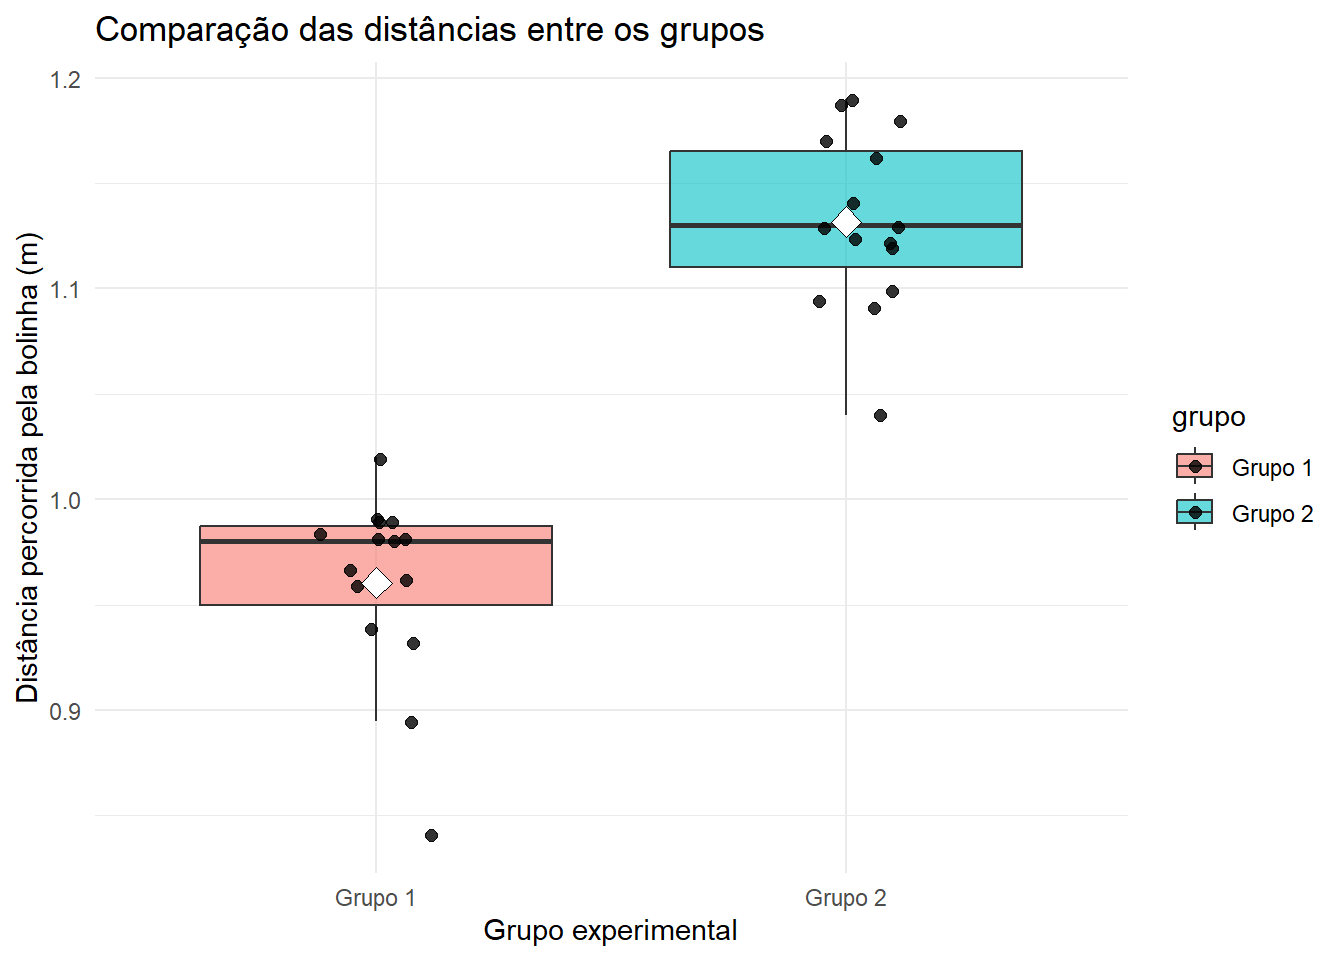
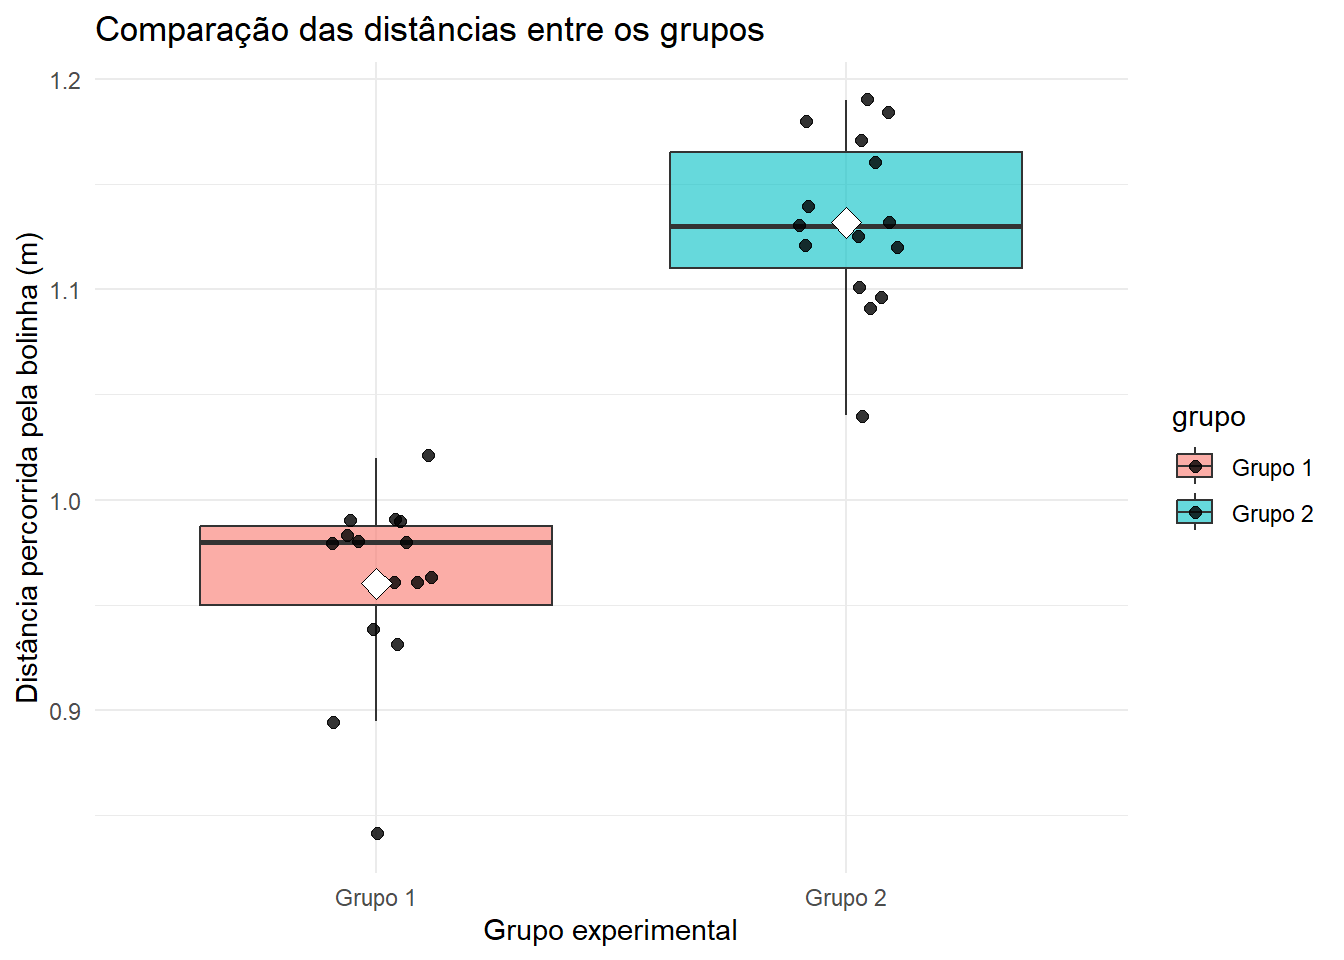
rel-08, vfinal_01

diff --git a/relatorio/rel08/index.html b/relatorio/rel08/index.html
@@ -127,7 +127,7 @@ window.Quarto = {
   <li><a href="#discussão-dos-resultados" id="toc-discussão-dos-resultados" class="nav-link" data-scroll-target="#discussão-dos-resultados"><span class="header-section-number">6</span> Discussão dos resultados</a></li>
   <li><a href="#aplicação-em-linguagem-r" id="toc-aplicação-em-linguagem-r" class="nav-link" data-scroll-target="#aplicação-em-linguagem-r"><span class="header-section-number">7</span> Aplicação em linguagem R</a></li>
   <li><a href="#conclusão" id="toc-conclusão" class="nav-link" data-scroll-target="#conclusão"><span class="header-section-number">8</span> Conclusão</a></li>
-  <li><a href="#referencia" id="toc-referencia" class="nav-link" data-scroll-target="#referencia"><span class="header-section-number">9</span> Referencia</a></li>
+  <li><a href="#referências" id="toc-referências" class="nav-link" data-scroll-target="#referências"><span class="header-section-number">9</span> Referências</a></li>
   </ul>
 </nav>
 </div>
@@ -452,9 +452,12 @@ mean of x mean of y
 </section>
 <section id="conclusão" class="level2" data-number="8">
 <h2 data-number="8" class="anchored" data-anchor-id="conclusão"><span class="header-section-number">8</span> Conclusão</h2>
+<p>Com base nos dados analisados, conclui-se que a configuração utilizada pelo Grupo 2 apresentou melhor desempenho no lançamento da bolinha pela catapulta. O teste t de Student apresentou valor de <span class="math display">\[(t \approx -10,91) , (gl = 28)\]</span> E p-valor aproximadamente igual a <span class="math display">\[(1,365 \times 10^{-11}).\]</span> Como o p-valor foi menor que (0,05), rejeita-se a hipótese nula de igualdade entre as médias. Portanto, há evidências estatísticas suficientes para afirmar que existe diferença significativa entre os grupos.</p>
+<p>Assim, dentro das condições do experimento e assumindo normalidade dos dados, a configuração do Grupo 2 foi a mais eficiente, pois apresentou maior distância média de lançamento e desempenho mais favorável em relação ao Grupo 1.</p>
 </section>
-<section id="referencia" class="level2" data-number="9">
-<h2 data-number="9" class="anchored" data-anchor-id="referencia"><span class="header-section-number">9</span> Referencia</h2>
+<section id="referências" class="level2" data-number="9">
+<h2 data-number="9" class="anchored" data-anchor-id="referências"><span class="header-section-number">9</span> Referências</h2>
+<p>[1] BATISTA, Ben Deivide. Livro de Estatística. Universidade Federal de São João del-Rei, UFSJ.</p>
 <!-- -->
 
 </section>
@@ -1236,7 +1239,14 @@ mean of x mean of y
 <span id="cb12-326"><a href="#cb12-326" aria-hidden="true" tabindex="-1"></a></span>
 <span id="cb12-327"><a href="#cb12-327" aria-hidden="true" tabindex="-1"></a><span class="fu">## Conclusão</span></span>
 <span id="cb12-328"><a href="#cb12-328" aria-hidden="true" tabindex="-1"></a></span>
-<span id="cb12-329"><a href="#cb12-329" aria-hidden="true" tabindex="-1"></a><span class="fu">## Referencia</span></span>
+<span id="cb12-329"><a href="#cb12-329" aria-hidden="true" tabindex="-1"></a>Com base nos dados analisados, conclui-se que a configuração utilizada pelo Grupo 2 apresentou melhor desempenho no lançamento da bolinha pela catapulta. O teste t de Student apresentou valor de $$(t \approx -10,91) , (gl = 28)$$ E p-valor aproximadamente igual a $$(1,365 \times 10^{-11}).$$</span>
+<span id="cb12-330"><a href="#cb12-330" aria-hidden="true" tabindex="-1"></a>Como o p-valor foi menor que (0,05), rejeita-se a hipótese nula de igualdade entre as médias. Portanto, há evidências estatísticas suficientes para afirmar que existe diferença significativa entre os grupos.</span>
+<span id="cb12-331"><a href="#cb12-331" aria-hidden="true" tabindex="-1"></a></span>
+<span id="cb12-332"><a href="#cb12-332" aria-hidden="true" tabindex="-1"></a>Assim, dentro das condições do experimento e assumindo normalidade dos dados, a configuração do Grupo 2 foi a mais eficiente, pois apresentou maior distância média de lançamento e desempenho mais favorável em relação ao Grupo 1.</span>
+<span id="cb12-333"><a href="#cb12-333" aria-hidden="true" tabindex="-1"></a></span>
+<span id="cb12-334"><a href="#cb12-334" aria-hidden="true" tabindex="-1"></a></span>
+<span id="cb12-335"><a href="#cb12-335" aria-hidden="true" tabindex="-1"></a><span class="fu">## Referências</span></span>
+<span id="cb12-336"><a href="#cb12-336" aria-hidden="true" tabindex="-1"></a><span class="co">[</span><span class="ot">1</span><span class="co">]</span> BATISTA, Ben Deivide. Livro de Estatística. Universidade Federal de São João del-Rei, UFSJ.</span>
 </code></pre></div><button title="Copiar para a área de transferência" class="code-copy-button" data-in-quarto-modal=""><i class="bi"></i></button></div>
 </div></div></div></div></div>
 </div> <!-- /content -->
